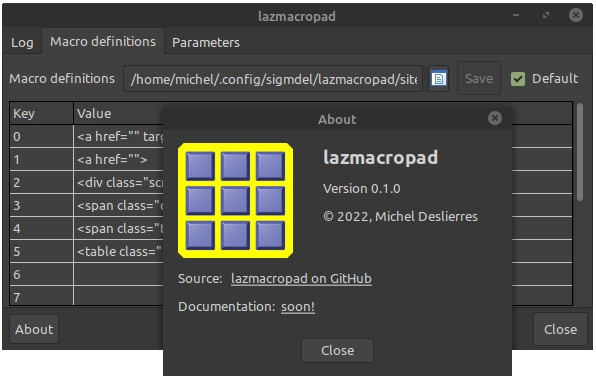
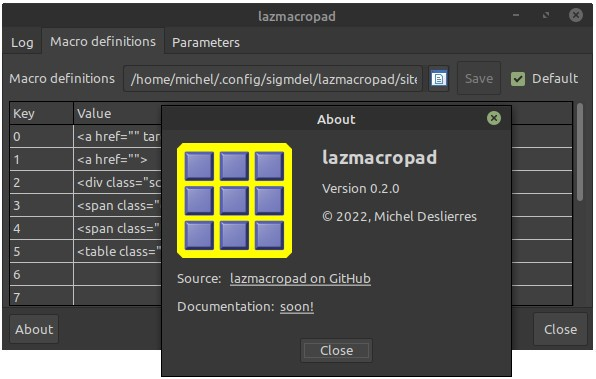
Improved the documentation and bumped the version number to 0.2.0

diff --git a/README.md b/README.md
@@ -1,7 +1,9 @@
 # lazmacropad
-**Version 0.1.0**
+**Version 0.2.0**
 
-A simple Free Pascal/Lazarus service that reads the serial output from a macro key pad as a key is pressed and injects a corresponding macro into the running application. 
+A rudimentary macro keypad based on the Arduino Nano and a simple Free Pascal/Lazarus program that pastes macros into the currently focused desktop application.
+
+Currently the desktop program runs on Linux only.
 
 ![screenshot](images/screenshot_0_1_0.jpg)
 
@@ -11,6 +13,9 @@ A simple Free Pascal/Lazarus service that reads the serial output from a macro k
 - [1. Hardware](#1-hardware)
 - [2. Theory of Operation](#2-theory-of-operation)
 - [3. Source Code and Prerequisites](#3-source-code-and-prerequisites)
+  - [3.1. Linux Requirements](#31-linux-requirements)
+- [4. Acknowledgment](#4-acknowledgment)
+- [5. License](#5-license)
 
 <!-- /TOC -->
 ## 1. Hardware
@@ -19,11 +24,11 @@ Only three items are needed to implement a basic macro keypad:
 
   1. A switch matrix. The program assumes that the key pad is composed of 16 switches arranged in a 4 x 4 matrix.
 
-  2. An Arduino Nano R3. This is an older, small form factor Arduino board based on the ATMega 328 microcontroller. It has a Mini-B USB socket, but some cheap clones come with Micro USB or Type-C USB connector.
+  2. An Arduino Nano R3. This is an older, smaller, Arduino board based on the ATmega328P microcontroller. It has a Mini-B USB socket, but some clones come with a Micro or Type-C USB connector.
 
   3. An appropriate USB cable to connect the Nano to a desktop or portable computer.
 
-Basically, any development board with 8 digital I/O pins and a serial port could be used, but the Nano and the readily available 4x4 matrix of tactile push buttons show below are very easily connected to 
+Basically, any development board with 8 digital I/O pins and a serial port could be used, but the Nano and the readily available 4x4 tactile push button matrix shown below are very easily connected to 
 each other.
 
 ![hardware](images/macrokeypad.jpg)
@@ -42,8 +47,11 @@ Note that the Nano is upside down (microcontroller is on the hidden side of the 
 +-------------- +                   +------+                +----------------------------------------+
 ```               
 
-The Nano continuously scans the key pad. When it detects that a key has been pressed, it sends a corresponding single letter string or *messages* (i.e. '0', '1' to 'f') to the desktop or probable over the USB connection. 
+The Nano continuously scans the key pad. When it detects that a key has been pressed, it sends a corresponding single letter string or *message* (i.e. '0', '1' or 'f') to the desktop or portable over the serial (USB) connection. 
 
+The Lazarus/Free Pascal program translates macro key *messages* from the Nano into strings or macros that are sent to whichever application is active on the desktop. Each macro is copied to the system clipboard and then a Ctrl+V is injected into the keyboard event queue of the active application to paste the content of the clipboard.
+
+The program also allows for editing, saving and loading macro definitions to suit any number of applications on the desktop.
 
 ## 3. Source Code and Prerequisites
 
@@ -57,13 +65,14 @@ The source code of the object pascal program consists of the following files:
     lazmacropad.ico
     main.pas, main.lfm 
     about.pas, about.lfm 
+    layout.pas, layout.lfm
     params.pas
 
-The source was compiled in Lazarus (version 2.3.0 / Free Pascal compiler 3.3.1) on a Linux Mint 20.1 desktop. The program translates the macro key *messages* from the Nano into strings or macros that are sent to whichever application is active on the desktop. The macro is copied to the system clipboard and then a Ctrl+V is injected into the keyboard event queue of the active application to  paste the content of the clipboard.
+The `MouseAndKeyInput` unit is used to generate the Ctrl-V keyboard event which is the usual paste keyboard shortcut. The unit is found in the `lazmouseandkeyinput` non-visual package. Add it in the `Required Packages` in the `Project Inspector` window (which is opened from the `Project` menu in the IDE).
 
-The program also takes care of the serial communication with the Nano and allows for editing, saving and loading macro definitions to suit any number of applications on the desktop.
+### 3.1. Linux Requirements
 
-The `MouseAndKeyInput` unit is used to generate the Ctrl-V keyboard event. The unit is found in the `lazmouseandkeyinput` non-visual package. Add it in the `Required Packages` in the `Project Inspector` window (which is opened from the `Project` menu in the IDE).
+The source was compiled in Lazarus (version 2.3.0 / Free Pascal compiler 3.3.1) on a Linux Mint 20.1 desktop and tested on the same machine. 
 
 The `libxtst` library is required. In recent versions of **Debian** the package containing this library is called `libxtst6`. In Linux Mint 20.1, the package was installed but the library could not be found until a symbolic link was added. 
 
@@ -78,3 +87,34 @@ Check if that is necessary with the following commands.
 $ sudo updatedb
 $ locate libXtst
 ```
+
+## 4. Acknowledgment
+
+There is no shortage of information on all sorts of more or less sophisticated macro key pads. 
+The Brian Lough video, [The Simplest DIMY Macro Keypad with Arduino](https://www.youtube.com/watch?v=ORujXGDqG_I&ab_channel=BrianLough) was the initial inspiration, but that project is based on an Arduino Pro Micro. The Cristian Bastidas (crixodia) [arduino-nano-macro-keypad](https://github.com/crixodia/arduino-nano-macro-keypad) GitHub repository showed how to create a similarly simple project using a Python script on the desktop.
+
+
+## 5. License
+
+Licence
+
+The **BSD Zero Clause** ([SPDX](https://spdx.dev/): [0BSD](https://spdx.org/licenses/0BSD.html)) licence applies to the original code in this repository.
+
+
+<!-- -
+michel@hp:~$ lsusb
+Bus 002 Device 002: ID 8087:8000 Intel Corp. 
+Bus 002 Device 001: ID 1d6b:0002 Linux Foundation 2.0 root hub
+Bus 001 Device 002: ID 8087:8008 Intel Corp. 
+Bus 001 Device 001: ID 1d6b:0002 Linux Foundation 2.0 root hub
+Bus 004 Device 001: ID 1d6b:0003 Linux Foundation 3.0 root hub
+Bus 003 Device 005: ID 058f:6362 Alcor Micro Corp. Flash Card Reader/Writer
+Bus 003 Device 004: ID 0471:060c Philips (or NXP) Consumer Infrared Transceiver (HP)
+Bus 003 Device 003: ID 04f3:0103 Elan Microelectronics Corp. ActiveJet K-2024 Multimedia Keyboard
+Bus 003 Device 007: ID 0a5c:21f1 Broadcom Corp. HP Portable Bumble Bee
+Bus 003 Device 009: ID 1a86:7523 QinHeng Electronics HL-340 USB-Serial adapter
+Bus 003 Device 008: ID 05e3:0608 Genesys Logic, Inc. Hub
+Bus 003 Device 006: ID 05e3:0608 Genesys Logic, Inc. Hub
+Bus 003 Device 002: ID 0461:4e23 Primax Electronics, Ltd HP USB Optical Mouse
+Bus 003 Device 001: ID 1d6b:0002 Linux Foundation 2.0 root hub
+->
